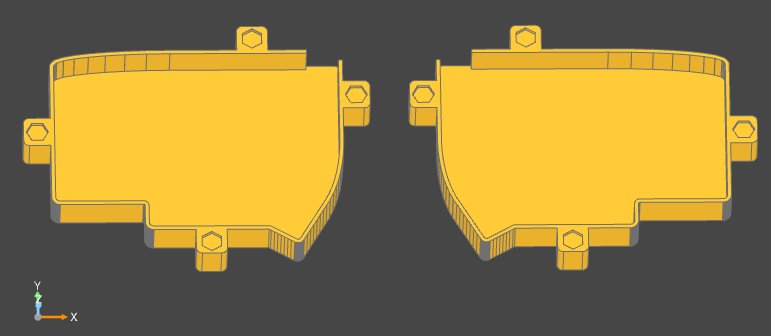
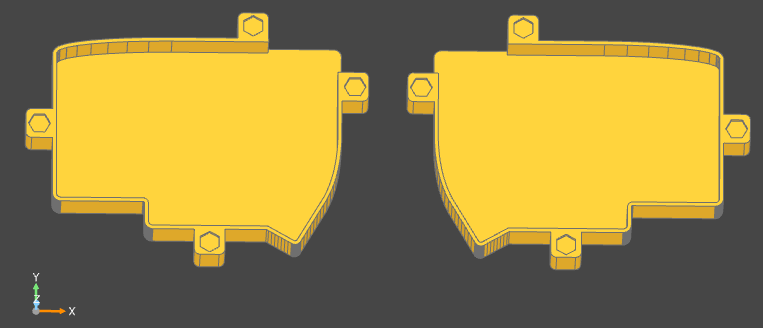
chore: Tweak cables cutout sizing

Changed region(s): [[0.5125, 0.0305, 0.9948, 0.8232], [0.0301, 0.0305, 0.4823, 0.8232], [0.0301, 0.8232, 0.1206, 0.9756]]

diff --git a/cad/lily58_travel_case.py b/cad/lily58_travel_case.py
@@ -177,9 +177,9 @@ def make_lily58_travel_case(
     # Remove spot on back wall for place for wire bit.
     # Note: Must come after adding magnet bosses.
     left_wall_x_pos = -71
-    back_wall_y_pos = 50
+    back_wall_y_pos = 37.8
     p -= bd.Pos(Y=back_wall_y_pos) * bd.Box(
-        2 * 15,
+        2 * 34.5,
         200,
         spec.total_keyboard_thickness,
         align=(bd.Align.CENTER, bd.Align.MIN, bd.Align.CENTER),
@@ -218,7 +218,7 @@ def render_both_halves() -> bd.Compound:
 if __name__ == "__main__":
     parts = {
         # "pcb_outline": show(get_pcb_outline(PartSpec().input_pcb_cad_path)),
-        "lily58_travel_case_right": (  # Best half for development/design.
+        "lily58_travel_case_right": show(  # Best half for development/design.
             make_lily58_travel_case(PartSpec("right"))
         ),
         "lily58_travel_case_left": (make_lily58_travel_case(PartSpec("left"))),
